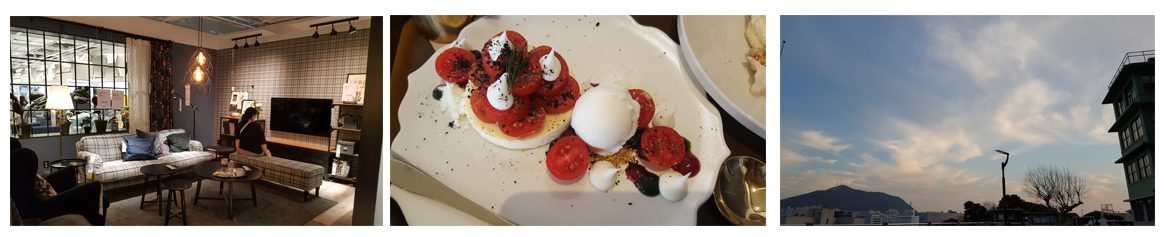
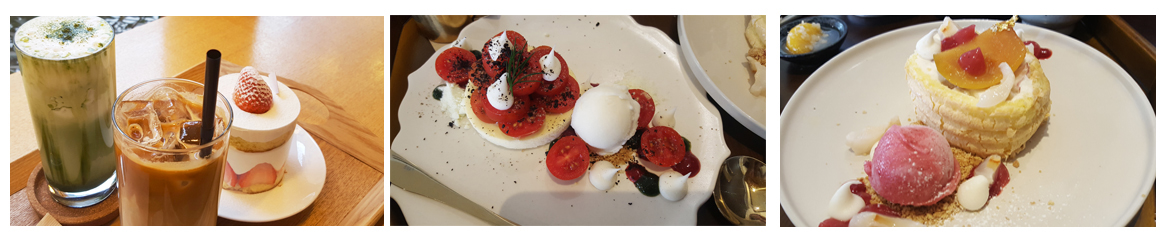
add

diff --git a/list.html b/list.html
@@ -1,52 +1,46 @@
 <!DOCTYPE html>
 <html>
   <head>
-<title>List Design Technics</title>
+<title>CAFE LIST</title>
 <meta charset="utf-8">
 <link rel="stylesheet" href="./style/list.css">
     </head>
-<body>
-    <h1>리스트 디자인</h1>
-    <p>순서가 없는 리스트입니다.</p>
-    <p class="list_description">오늘의 식단</p>
+    
+    <body>
+        <center>
+            <img src="src/cupcake.png" width="50" height="50">
+            <p>CAFE LIST</p>
+    <img src="src/cake.jpg.jpg" width="600" height="450">
+    <p class="list_description">수플레 팬케이크 카페 Joe Deep</p>
     <ul>
-    <li class="disc_list">현미밥</li>
-    <li class="circle_list">된장국</li>
-    <li class="square_list">배추김치</li>
-    <li class="none_bullet">불고기</li>
+    <li class="square_list">운영시간 13:30~21:00</li>
+    <li class="disc_list">오리지널 수플레</li>
+    <li class="circle_list">바닐라 라떼</li>
+    <li class="square_list">쥬스</li>
     </ul>
     
-    
+    <img src="src/cafe.jpg.jpg" width="600" height="400">
+    <p class="list_description">디저트 카페 MOLLE</p>
     <ul class="img_list">
-     <li>현미밥</li>
-     <li>된장국</li>
-     <li>배추김치</li>
-     <li>불고기</li>
+     <li>운영시간 11:00~22:30</li>
+     <li>스트로베리 샹티이</li>
+     <li>말차 라떼</li>
+     <li>바닐라 라떼</li>
     </ul>
     
-    
-    <p>순서가 있는 리스트입니다.</p>
-    
-    <p class="list_description">달리기 순위 리스트</p>
+    <img src="src/dess.jpg" width="600" height="400">
+    <p class="list_description">디저트 카페 녹아내려</p>
         
     <ol>
-    <li>첫째</li>
-    <li>둘째</li>
-    <li>셋째</li>
+    <li>13:00-21:00</li>
+    <li>여름엔 천도 복숭아</li>
+    <li>아메리카노 </li>
         
     </ol>
+
     
-    
-    
-    <ul class="prize">
-    <li class="none_bullet">첫째</li>
-    <li class="none_bullet">둘째</li>
-    <li class="none_bullet">셋째</li>
-    </ul>
-    
-    <p>정의가 포함된 리스트입니다.</p>
-    <p class="list_description">웹디자인 요소 정의</p>
-    
+     <br>
+    <p class="list_description">매장 위치</p>
     <dl>
     <dt>HTML : </dt>
         <dd>앱에 보여지는 문서 방식중 하나</dd>
@@ -74,6 +68,6 @@
     
     </dl>
  
- 
+ </center>
   </body>
   </html>

diff --git a/index.html b/index.html
@@ -10,14 +10,14 @@
     <body>
         <center>
         <section id="contents">
-    <h1>DIARY</h1>
+    <h1>FOOD DIARY</h1>
     <p class="title">Welcome To My Homepage! <br> Click on the text below the picture to see more.</p><br>
     <img id="top" src="src/DESSERT%20(2).jpg" alt="main image">
         <br>
         <img id="bottom" src="src/daily.jpg" alt="sub image">
         <ul class ="ul_style">
-    <li style="display: inline-block"> <a href="list.html"> 리스트와 디자인 </a></li> 
-    <li style="display: inline-block"> <a href="link.html"> 리스트와 디자인 </a></li>
+    <li style="display: inline-block"> <a href="list.html"> CAFE LIST </a></li> 
+    <li style="display: inline-block"> <a href="link.html"> RESTAURANT LIST </a></li>
     </ul>
     </section>
     </center>
